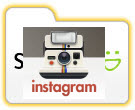
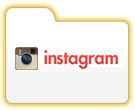
instagram connector all working

diff --git a/public/javascripts/zz/photochooser.js b/public/javascripts/zz/photochooser.js
@@ -482,6 +482,30 @@
                 }
             });
 
+            //Instagram
+            roots.push(
+            {
+                open_url: zz.path_prefix + '/instagram/folders.json',
+                type: 'folder',
+                name: 'Instagram',
+                src: '/images/folders/instagram_off.jpg',
+                rolloverSrc: '/images/folders/instagram_on.jpg',
+
+                on_error: function(){
+                    var folder = this;
+                    self.bodyElement.hide().load('/static/connect_messages/connect_to_instagram.html', function(){
+                        self.bodyElement.find('#connect-button').click(function(){
+                            self.open_login_window(folder, zz.path_prefix + '/instagram/sessions/new');
+                        });
+                        self.bodyElement.fadeIn('fast');
+                    });
+                }
+
+            });
+
+
+
+
             //Shutterfly
             roots.push(
             {

diff --git a/app/controllers/connector/instagram_photos_controller.rb b/app/controllers/connector/instagram_photos_controller.rb
@@ -34,7 +34,7 @@ class Connector::InstagramPhotosController < Connector::InstagramController
     )
 
     ZZ::Async::GeneralImport.enqueue( photo.id, photo_data[:images][:standard_resolution][:url] )
-    render :json => Photo.to_json_lite(photo_data)
+    render :json => Photo.to_json_lite(photo)
   end
 
 end
